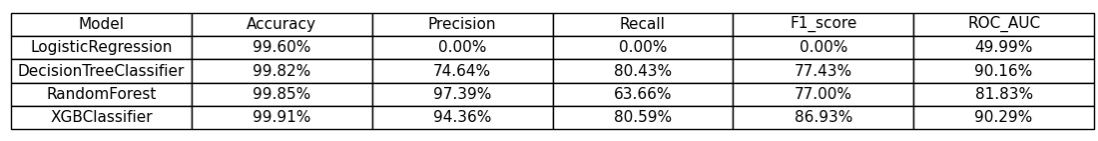
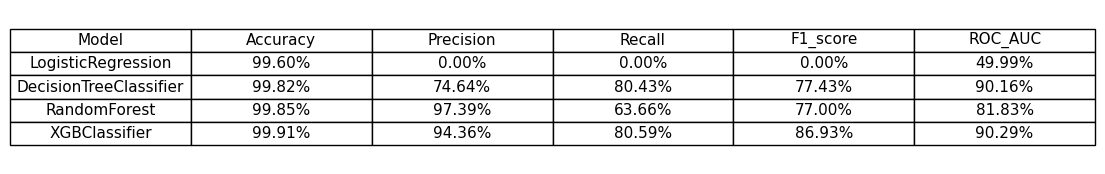
updated read me

diff --git a/CreditCard-Fraud-Detection/README.md b/CreditCard-Fraud-Detection/README.md
@@ -62,7 +62,7 @@ The dataset is extracted from the open-source website Kaggle. The dataset simula
 
 A comparison of the performance metrics of the different models
 <p align="left">
-<img src="https://github.com/kanagaraj0215/Data-Science-Projects/blob/main/CreditCard-Fraud-Detection/images/comparison_of_the_performance_metrics.png" width="750" height="500"/>
+<img src="https://github.com/kanagaraj0215/Data-Science-Projects/blob/main/CreditCard-Fraud-Detection/images/comparison_of_the_performance_metrics.png" width="1200" height="400"/>
 </p>
 
 <p align="center">
